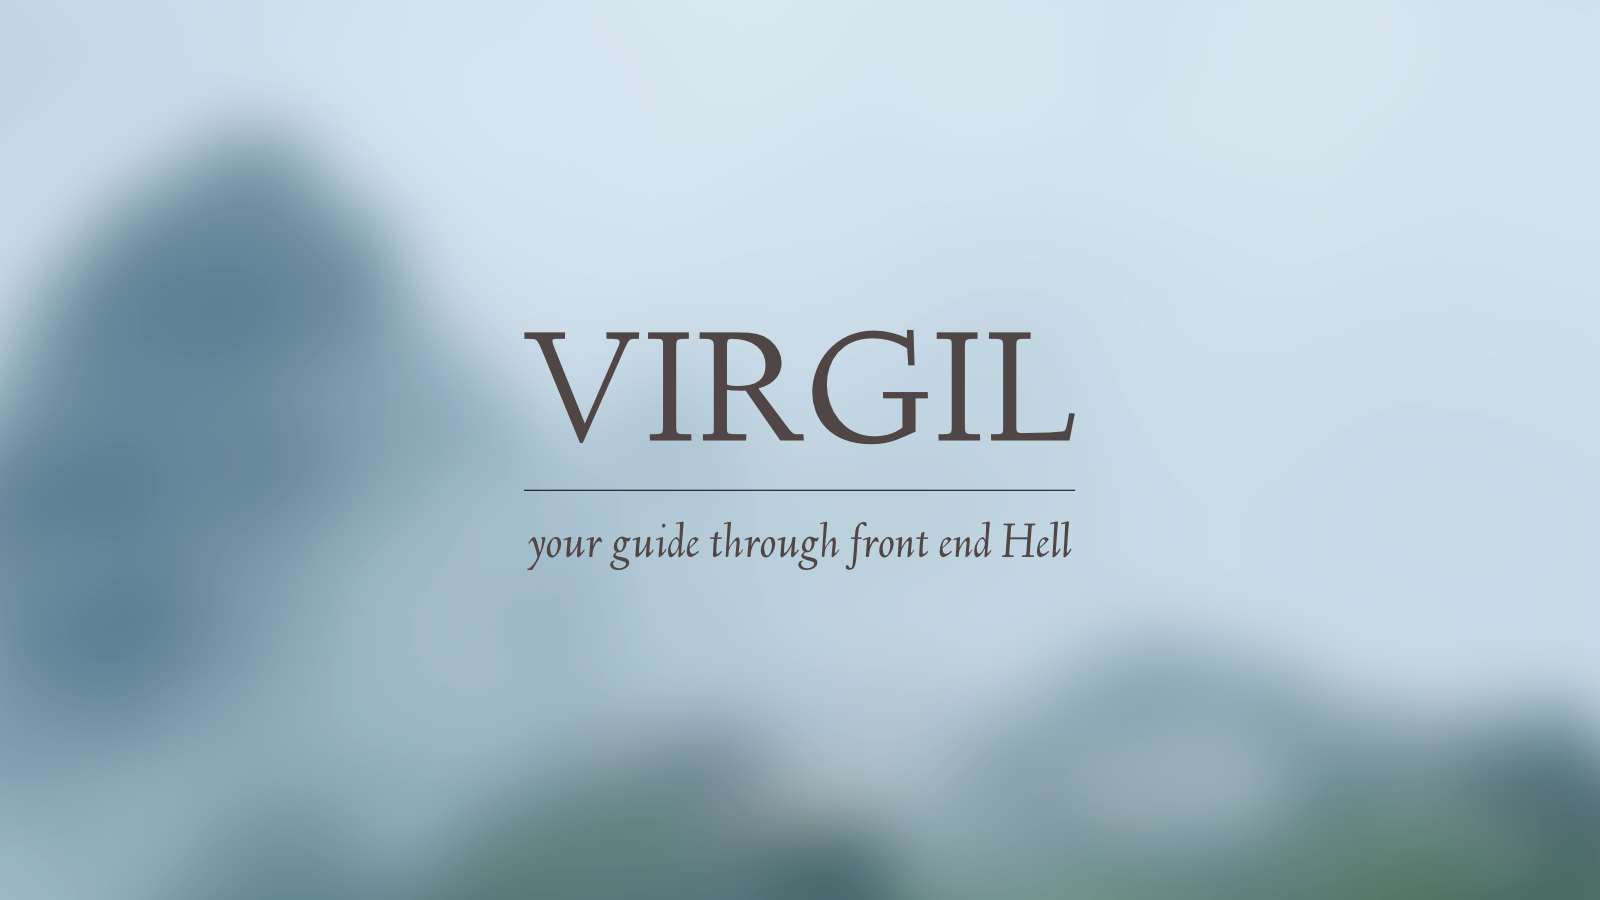
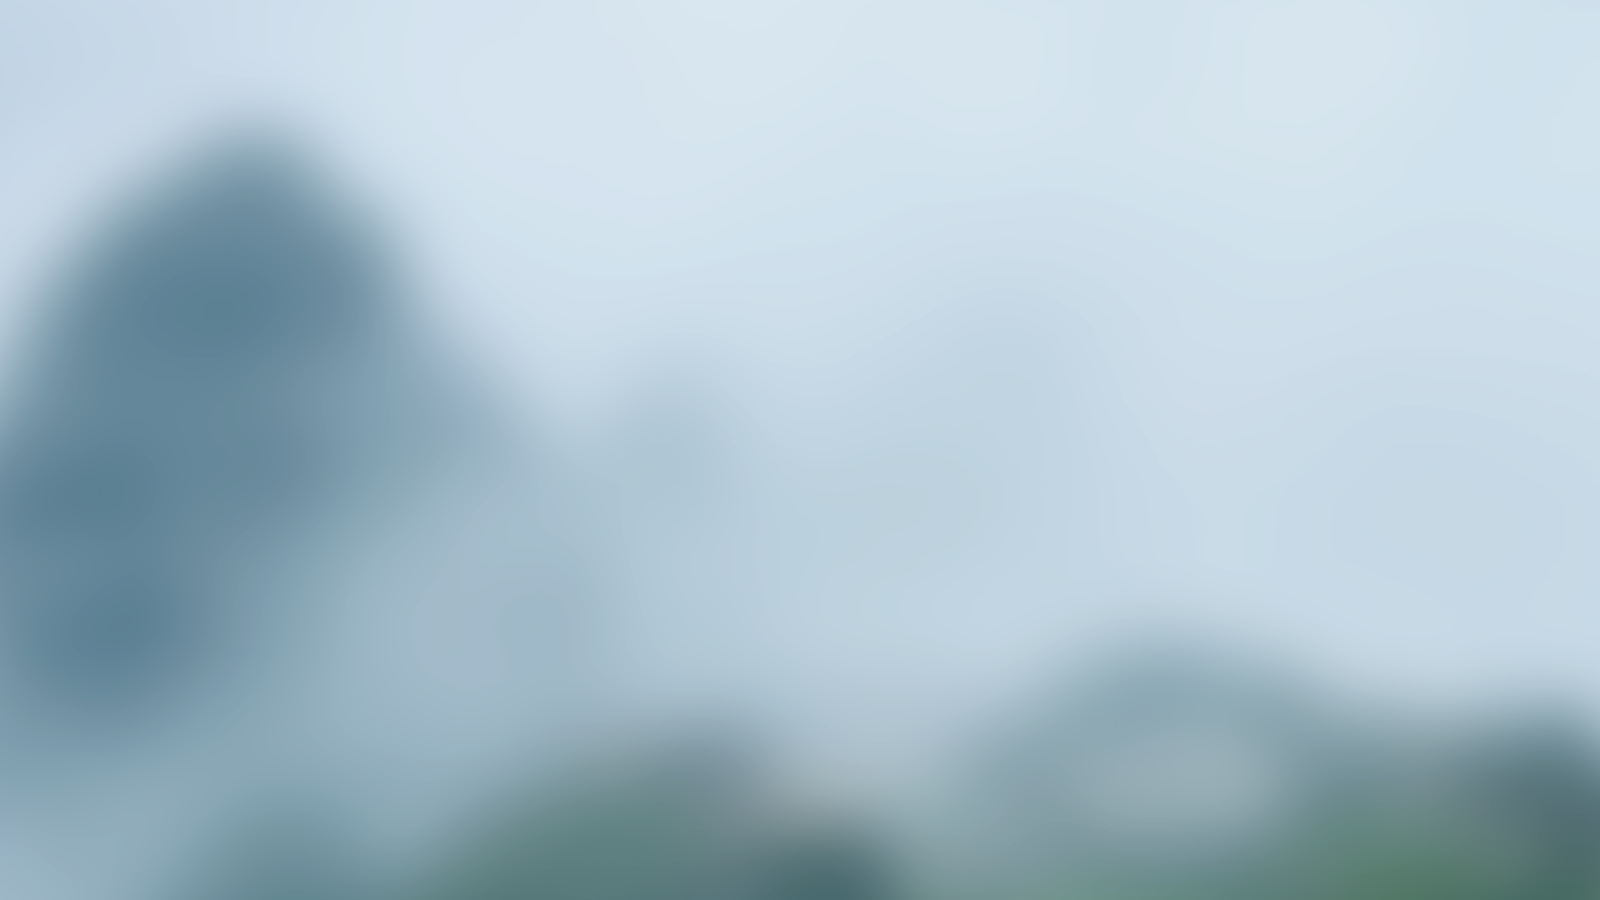
Demo cleanup.

Changed region(s): [[0.3125, 0.3422, 0.6875, 0.4978], [0.3125, 0.5911, 0.6875, 0.6222]]

diff --git a/app/sass/config/_variables.scss b/app/sass/config/_variables.scss
@@ -8,6 +8,7 @@ $color-accent-one: #E09FA3 !default;
 $color-base: #A8548F !default;
 $color-text-on-dark: #EDF1FF;
 $color-text-on-light: #514646;
+$color-alert: hsl(0, 60%, 50%);
 
 // Typography
 $sans-serif: 'Open Sans', sans-serif;
@@ -45,6 +46,14 @@ $modal: 900;
 $default-button-background: $color-base;
 $default-button-border-color: darken($color-base, 5%);
 $default-button-text-color: $color-text-on-dark;
+$secondary-button-background: $color-accent-one;
+$secondary-button-border-color: darken($color-accent-one, 5%);
+$secondary-button-text-color: white;
+
+$alert-button-background: $color-alert;
+$alert-button-border-color: darken($color-alert, 5%);
+$alert-button-text-color: white;
+
 $base-border-radius: 1px;
 
 // Modals

diff --git a/app/js/components/styleguide/1. Intro.jsx b/app/js/components/styleguide/1. Intro.jsx
@@ -1,4 +1,5 @@
 var React = require("react");
+var FlexboxHero = require("js/components/structures/FlexboxHero");
 var virgilImg = require("images/virgil.png");
 
 var Intro = React.createClass({
@@ -12,7 +13,12 @@ var Intro = React.createClass({
     render: function() {
         return (
             <div>
-            <img src={virgilImg} />
+            <FlexboxHero
+                backgroundImgSrc={virgilImg}
+                titleText="Virgil"
+                copy = "Guiding You Through Front-End Hell"
+            />
+
             <p>Let's start off by defining some of the typography used here.</p>
 
             </div>

diff --git a/app/sass/components/elements/_buttons.scss b/app/sass/components/elements/_buttons.scss
@@ -20,6 +20,24 @@ a.button{
     )
   }
 
+  &--secondary{
+    @extend .button;
+    @include button(
+      $secondary-button-background,
+      $secondary-button-border-color,
+      $secondary-button-text-color
+    )
+  }
+
+  &--alert{
+    @extend .button;
+    @include button(
+            $alert-button-background,
+            $alert-button-border-color,
+            $alert-button-text-color
+    )
+  }
+
   &--nav-toggle{
     @include button(
       transparent,

diff --git a/app/sass/components/structures/_flexbox-hero.scss b/app/sass/components/structures/_flexbox-hero.scss
@@ -17,13 +17,14 @@
     align-items: center;
     justify-content: center;
     flex-direction: column;
+    height: 100%;
   }
 
   &__title{
     color: $flexbox-hero-title-color;
     font-size: $flexbox-hero-title-size;
     text-transform: uppercase;
-    margin: 40px 0 20px 0;
+    margin: 0 0 20px 0;
   }
 
   &__copy{

diff --git a/app/js/components/styleguide/3. ColorGrid.jsx b/app/js/components/styleguide/3. ColorGrid.jsx
@@ -18,7 +18,7 @@ var ColorGrid = React.createClass({
 
         notes: function() {
             return(
-                <p>These are some notes. Neato burrito!</p>
+                <p>These are some notes. You can put whatever you want here, even inline JavaScript.</p>
             );
         },
 
